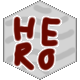
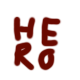
changed draworder, more textures
added energysourcevoid and sampleultcreature textures; removed bg on basichero. changed order to draw creatures after energysource; catch exception on deck sort.

diff --git a/src/jfxApplication/JFXMainApplication.java b/src/jfxApplication/JFXMainApplication.java
@@ -139,6 +139,7 @@ public class JFXMainApplication extends Application {
 			imgMap.put("fog", new Image(new FileInputStream(new File("resources\\general\\fogImg.png"))));
 			imgMap.put("void", new Image(new FileInputStream(new File("resources\\general\\voidTile.png"))));
 			imgMap.put("esrc", new Image(new FileInputStream(new File("resources\\general\\energySourceImg.png"))));
+			imgMap.put("esrcv", new Image(new FileInputStream(new File("resources\\general\\energySourceVoid.png"))));
 			imgMap.put("land", new Image(new FileInputStream(new File("resources\\general\\landImg.png"))));
 		} catch (FileNotFoundException e) {
 			e.printStackTrace();
@@ -162,6 +163,22 @@ public class JFXMainApplication extends Application {
 				case 4 : graphicsContext.drawImage(imgMap.get("res3"), x, y, TILE_HEIGHT, TILE_HEIGHT); break;
 				case 5 : graphicsContext.drawImage(imgMap.get("res4"), x, y, TILE_HEIGHT, TILE_HEIGHT); break;
 				}
+				
+				if (cb.board.get(s).ground.aeSourceCount >= 1) {
+					if (cb.board.get(s).ground.gType >= 1) {
+						graphicsContext.drawImage(imgMap.get("esrc"), x, y, TILE_HEIGHT, TILE_HEIGHT);
+					} else if (cb.board.get(s).ground.gType == 0) {
+						graphicsContext.drawImage(imgMap.get("esrcv"), x, y, TILE_HEIGHT, TILE_HEIGHT);
+					}
+				}
+				if (cb.board.get(s).ground.gType >= 1) {
+					if (cb.board.get(s).ground.owner.startsWith(cb.player)) {
+						graphicsContext.drawImage(imgMap.get("rframe"), x, y, TILE_HEIGHT, TILE_HEIGHT);
+					} else {
+						graphicsContext.drawImage(imgMap.get("bframe"), x, y, TILE_HEIGHT, TILE_HEIGHT);
+					}
+				}
+				
 				if (cb.board.get(s).creature != null) {
 					CommCard cc = cb.board.get(s).creature;
 					if (imgMap.get(cc.ctype + cc.cname) != null) {
@@ -171,18 +188,6 @@ public class JFXMainApplication extends Application {
 						if (loadTile(cc.ctype, cc.cname)) {
 							graphicsContext.drawImage(imgMap.get(cc.ctype + cc.cname), x, y, TILE_HEIGHT, TILE_HEIGHT);
 						}
-					}
-				}
-				if (cb.board.get(s).ground.aeSourceCount >= 1) {
-					if (cb.board.get(s).ground.gType >= 1) {
-						graphicsContext.drawImage(imgMap.get("esrc"), x, y, TILE_HEIGHT, TILE_HEIGHT);
-					}
-				}
-				if (cb.board.get(s).ground.gType >= 1) {
-					if (cb.board.get(s).ground.owner.startsWith(cb.player)) {
-						graphicsContext.drawImage(imgMap.get("rframe"), x, y, TILE_HEIGHT, TILE_HEIGHT);
-					} else {
-						graphicsContext.drawImage(imgMap.get("bframe"), x, y, TILE_HEIGHT, TILE_HEIGHT);
 					}
 				}
 			} catch (Exception e) {

diff --git a/src/communication/CommBoard.java b/src/communication/CommBoard.java
@@ -67,7 +67,11 @@ public class CommBoard implements Serializable, Cloneable {
 		for (int i = 0; i < cd.size(); i++) {
 			deck[i] = new CommCard(cd.get(i), bd, "deck");
 		}
-		Arrays.sort(deck);
+		try {
+			Arrays.sort(deck);
+		}catch (Exception e) {
+			// TODO: handle exception
+		}
 		enemygrave = new CommCard[bd.grave.get(p2name).size()];
 		cd = bd.grave.get(p2name).get();
 		for (int i = 0; i < cd.size(); i++) {
